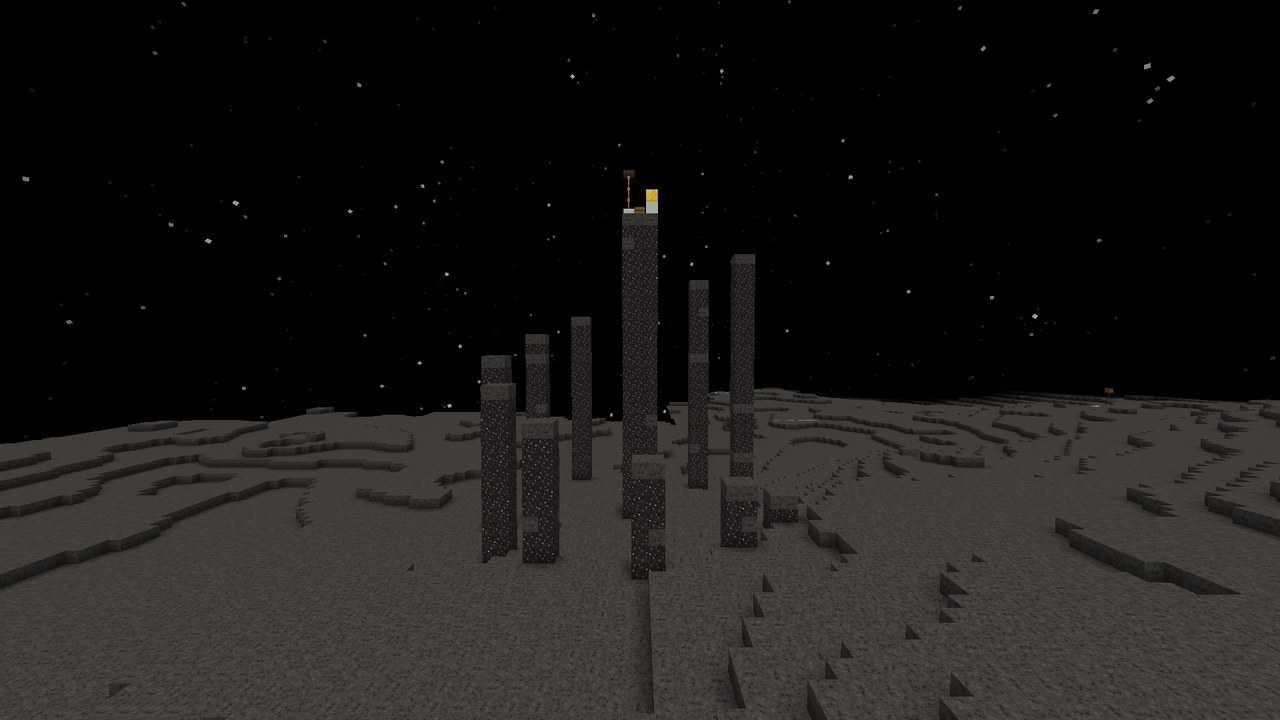
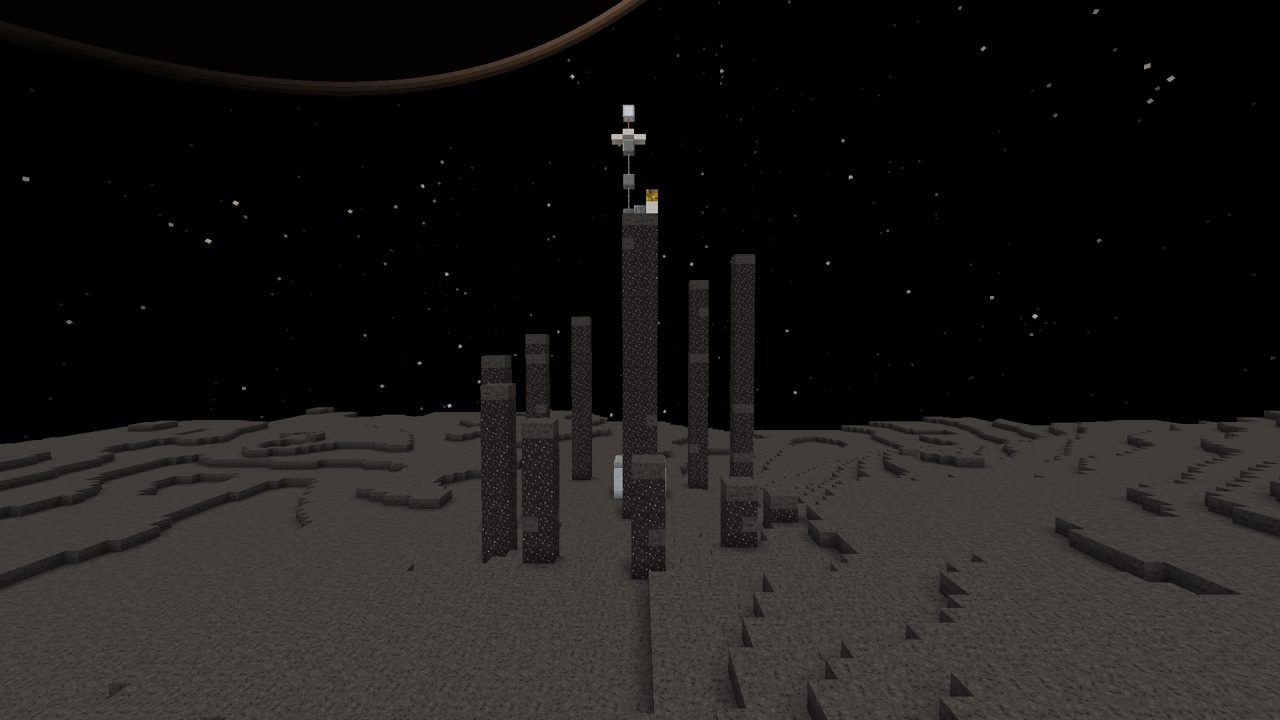
Deimos relay spire: a real relay on the summit and a ground station
The summit carries a lattice mast with a sky-facing dish and an LED beacon, a foil-wrapped transmitter and the data cache in a supply locker; a cable runs down the needle's face to a small panelled ground station with a dish and a floodlight. The hop course is unchanged.

diff --git a/src/main/java/com/pizzaparker07/spacebreaker/content/mars/dungeon/HopSpirePiece.java b/src/main/java/com/pizzaparker07/spacebreaker/content/mars/dungeon/HopSpirePiece.java
@@ -2,6 +2,7 @@ package com.pizzaparker07.spacebreaker.content.mars.dungeon;
 
 import com.pizzaparker07.spacebreaker.content.mars.MarsModule;
 import net.minecraft.core.BlockPos;
+import net.minecraft.core.Direction;
 import net.minecraft.nbt.CompoundTag;
 import net.minecraft.util.RandomSource;
 import net.minecraft.world.level.ChunkPos;
@@ -115,22 +116,38 @@ public class HopSpirePiece extends StructurePiece {
                 column(level, box, sum.getX() + dx, sum.getZ() + dz, sum.getY() - 1, r);
             }
         }
-        // the relay on the summit: a mast with a dish and a sealed data cache
+        // the relay on the summit: a lattice mast with a dish and a beacon, a foil-wrapped transmitter, the data cache
         int sy = sum.getY();
-        set(level, box, sum.getX() - 1, sy, sum.getZ() - 1, s(Blocks.IRON_BLOCK));
-        for (int dy = 1; dy <= 3; dy++) {
-            set(level, box, sum.getX() - 1, sy + dy, sum.getZ() - 1, s(Blocks.LIGHTNING_ROD));
+        int mx = sum.getX() - 1;
+        int mz = sum.getZ() - 1;
+        set(level, box, mx, sy, mz, s(Blocks.POLISHED_ANDESITE));
+        for (int dy = 1; dy <= 6; dy++) {
+            set(level, box, mx, sy + dy, mz, dy % 3 == 0 ? s(Blocks.POLISHED_ANDESITE) : s(Blocks.IRON_BARS));
         }
-        set(level, box, sum.getX() - 1, sy + 4, sum.getZ() - 1, s(Blocks.DAYLIGHT_DETECTOR));
-        set(level, box, sum.getX() + 1, sy, sum.getZ() + 1, s(Blocks.WHITE_CONCRETE));
-        set(level, box, sum.getX() + 1, sy + 1, sum.getZ() + 1, s(Blocks.GOLD_BLOCK));
-        BlockPos chest = new BlockPos(sum.getX(), sy, sum.getZ());
-        if (box.isInside(chest)) {
-            level.setBlock(chest, s(Blocks.CHEST), Block.UPDATE_CLIENTS);
-            if (level.getBlockEntity(chest) instanceof net.minecraft.world.level.block.entity.ChestBlockEntity be) {
+        // the dish: a ring of slabs round a receiver, turned to the sky
+        set(level, box, mx, sy + 7, mz, s(Blocks.DAYLIGHT_DETECTOR));
+        for (int[] d : new int[][]{{-1, 0}, {1, 0}, {0, -1}, {0, 1}}) {
+            set(level, box, mx + d[0], sy + 7, mz + d[1], s(Blocks.SMOOTH_QUARTZ_SLAB));
+        }
+        set(level, box, mx, sy + 8, mz, s(Blocks.LIGHTNING_ROD));
+        set(level, box, mx, sy + 9, mz, s(com.pizzaparker07.spacebreaker.content.rocketry.base.BaseBlocks.LED_PANEL.get()));
+        set(level, box, sum.getX() + 1, sy, sum.getZ() + 1, s(Blocks.SMOOTH_QUARTZ));
+        set(level, box, sum.getX() + 1, sy + 1, sum.getZ() + 1, s(com.pizzaparker07.spacebreaker.content.belt.LanderBlocks.GOLD_FOIL_CLADDING.get()));
+        BlockPos cache = new BlockPos(sum.getX(), sy, sum.getZ());
+        if (box.isInside(cache)) {
+            level.setBlock(cache, com.pizzaparker07.spacebreaker.content.dungeons.locker.SupplyLocker.BLOCK.get().defaultBlockState()
+                    .setValue(com.pizzaparker07.spacebreaker.content.dungeons.locker.SupplyLockerBlock.FACING, Direction.SOUTH), Block.UPDATE_CLIENTS);
+            if (level.getBlockEntity(cache) instanceof com.pizzaparker07.spacebreaker.content.dungeons.locker.SupplyLockerBlockEntity be) {
                 be.setLootTable(MarsLoot.DEIMOS_RELAY, seed);
             }
         }
+        // the cable: down the needle's north face to a ground station at its foot
+        int cz = sum.getZ() - 2;
+        int gy = ground(level, sum.getX(), cz);
+        for (int y = gy; y < sy; y++) {
+            set(level, box, sum.getX(), y, cz, s(Blocks.CHAIN));
+        }
+        groundStation(level, box, sum.getX() - 2, cz - 4);
         // the plate at the foot of the first stack
         BlockPos first = stacks().get(0);
         int signX = first.getX() - 2;
@@ -139,5 +156,29 @@ public class HopSpirePiece extends StructurePiece {
             level.setBlock(sign, s(Blocks.OAK_SIGN).setValue(StandingSignBlock.ROTATION, 12), Block.UPDATE_CLIENTS);
             DungeonBits.signText(level, sign, "deimos_hop");
         }
+    }
+
+    /** The relay's ground station: a small panelled hut with a dish on its roof and a floodlight over the door. */
+    private void groundStation(WorldGenLevel level, BoundingBox box, int x0, int z0) {
+        BlockState panel = s(com.pizzaparker07.spacebreaker.content.rocketry.base.BaseBlocks.ALUMINUM_PANEL.base().get());
+        int gy = ground(level, x0 + 2, z0 + 1);
+        for (int x = x0; x <= x0 + 4; x++) {
+            for (int z = z0; z <= z0 + 2; z++) {
+                for (int y = ground(level, x, z); y < gy; y++) {
+                    set(level, box, x, y, z, s(MarsModule.CARBONACEOUS_CHONDRITE.get()));
+                }
+                for (int y = gy; y <= gy + 2; y++) {
+                    boolean shell = x == x0 || x == x0 + 4 || z == z0 || z == z0 + 2;
+                    boolean door = z == z0 + 2 && x == x0 + 2 && y <= gy + 1;
+                    set(level, box, x, y, z, shell && !door ? panel : s(Blocks.AIR));
+                }
+                set(level, box, x, gy + 3, z, s(Blocks.POLISHED_ANDESITE_SLAB));
+            }
+        }
+        set(level, box, x0 + 2, gy, z0 + 1, s(com.pizzaparker07.spacebreaker.content.machines.MachinesModule.POWER_MONITOR.get()));
+        set(level, box, x0 + 1, gy + 4, z0 + 1, s(Blocks.DAYLIGHT_DETECTOR));
+        set(level, box, x0 + 3, gy + 4, z0 + 1, s(Blocks.LIGHTNING_ROD));
+        set(level, box, x0 + 2, gy + 2, z0 + 3, s(com.pizzaparker07.spacebreaker.content.rocketry.base.BaseBlocks.FLOODLIGHT.get())
+                .setValue(net.minecraft.world.level.block.DirectionalBlock.FACING, Direction.SOUTH));
     }
 }

diff --git a/src/testmod/java/com/pizzaparker07/spacebreaker/testmod/mars/MarsLifeGameTests.java b/src/testmod/java/com/pizzaparker07/spacebreaker/testmod/mars/MarsLifeGameTests.java
@@ -340,8 +340,8 @@ public final class MarsLifeGameTests {
         }
         BlockPos summit = piece.summit();
         helper.assertTrue(summit.getY() - stacks.get(stacks.size() - 1).getY() == rise, "the summit is one hop above the last stack");
-        helper.assertTrue(lootChests(level, piece.getBoundingBox()) == 1, "the relay cache on the summit");
-        helper.assertTrue(level.getBlockState(summit).is(Blocks.CHEST), "the cache sits on the summit");
+        helper.assertTrue(level.getBlockEntity(summit) instanceof com.pizzaparker07.spacebreaker.content.dungeons.locker.SupplyLockerBlockEntity l
+                && l.getLootTable() != null, "the relay cache (a supply locker) sits on the summit");
         helper.succeed();
     }
 

diff --git a/docs/CONTENT.md b/docs/CONTENT.md
@@ -178,7 +178,7 @@ Her içerik paketi gerçek istemcide vitrin dünyasında fotoğraflanır; onayda
 | 🎨 | Stickney krateri | Phobos'un dev krateri sabit yerde (doğuş noktasının ~320 blok doğusu, 230 blok yarıçap, 58 blok derin kase); arazi motoruna `named_craters` (ad, x, enlem, yarıçap, derinlik, tepe) eklendi |
 | 🎨 | Bloklar | Phobos Regoliti, Deimos Regoliti (kalıcı ayak izi), Karbonlu Kondrit |
 | 🎨 | Yaratık: Çapa Örücüsü (Tether Spinner) | Phobos ve Deimos'ta; altı bacaklı, uzun sekmelerle gider; her sekmeden önce zemine ipek ip yapıştırır, ip gerilince geri çekilir (küçük ayda kaçış hızı dersi); havada ip parıltıyla görünür, bacaklar toplanır; ip (string) bırakır; karbonlu kondritle çekilir/üretilir |
-| 🎨 | Zindanlar | Düşmüş Numune Dönüş Sondası (Phobos: çarpma çukuruna burnuyla gömülmüş küçük sekizgen kapsül, altın folyo şerit, kahverengi ısı kalkanı, yerde yatan kapak, kolunda kalan ve kopup savrulan güneş kanatları; numune kasası Malzeme Dolabında), Deimos Buz Deposu (alüminyum panel kaplı mahzen, LED ve kablo kanalı, Malzeme Dolapları, ışıldaklı işaret direği), Stickney'nin Çapalı İniş Aracı (dünyada tek: Stickney tabanında; küçük sekizgen gövde, altın folyo kaplama, açık bacaklar ve ayak tablaları, biri katlanmış, kuzeyde küçük güneş kanadı; vinç gövdeli 3 harpun, çift halatlı zincirlerle zemine bağlı; veri kaydedici Malzeme Dolabında, "1/2000 g: geri sekti" levhası; güvenlik ipi, mikro-yerçekimi madenciliği / uzay sondası diskleri), Deimos Röle Kulesi (spiral 12 kaya yığını, her biri 2 blok yüksek ve 4+ blok uzak: Dünya'da aşılamaz, Deimos'ta her gerçekçilik ayarında aşılır — test MC zıplama fiziğiyle doğrular; tepede röle ve veri kasası, "1/4000 g" levhası) |
+| 🎨 | Zindanlar | Düşmüş Numune Dönüş Sondası (Phobos: çarpma çukuruna burnuyla gömülmüş küçük sekizgen kapsül, altın folyo şerit, kahverengi ısı kalkanı, yerde yatan kapak, kolunda kalan ve kopup savrulan güneş kanatları; numune kasası Malzeme Dolabında), Deimos Buz Deposu (alüminyum panel kaplı mahzen, LED ve kablo kanalı, Malzeme Dolapları, ışıldaklı işaret direği), Stickney'nin Çapalı İniş Aracı (dünyada tek: Stickney tabanında; küçük sekizgen gövde, altın folyo kaplama, açık bacaklar ve ayak tablaları, biri katlanmış, kuzeyde küçük güneş kanadı; vinç gövdeli 3 harpun, çift halatlı zincirlerle zemine bağlı; veri kaydedici Malzeme Dolabında, "1/2000 g: geri sekti" levhası; güvenlik ipi, mikro-yerçekimi madenciliği / uzay sondası diskleri), Deimos Röle Kulesi (spiral 12 kaya yığını, her biri 2 blok yüksek ve 4+ blok uzak: Dünya'da aşılamaz, Deimos'ta her gerçekçilik ayarında aşılır — test MC zıplama fiziğiyle doğrular; tepede kafes direkli röle, gökyüzüne dönük çanak ve LED işaret feneri, folyo kaplı verici, Malzeme Dolabında veri kasası; iğnenin yüzünden inen kablo, dibinde çanaklı ve ışıldaklı küçük yer istasyonu; "1/4000 g" levhası) |
 
 ### Venüs `spacebreaker:venus`
 | Durum | İçerik | Not |
